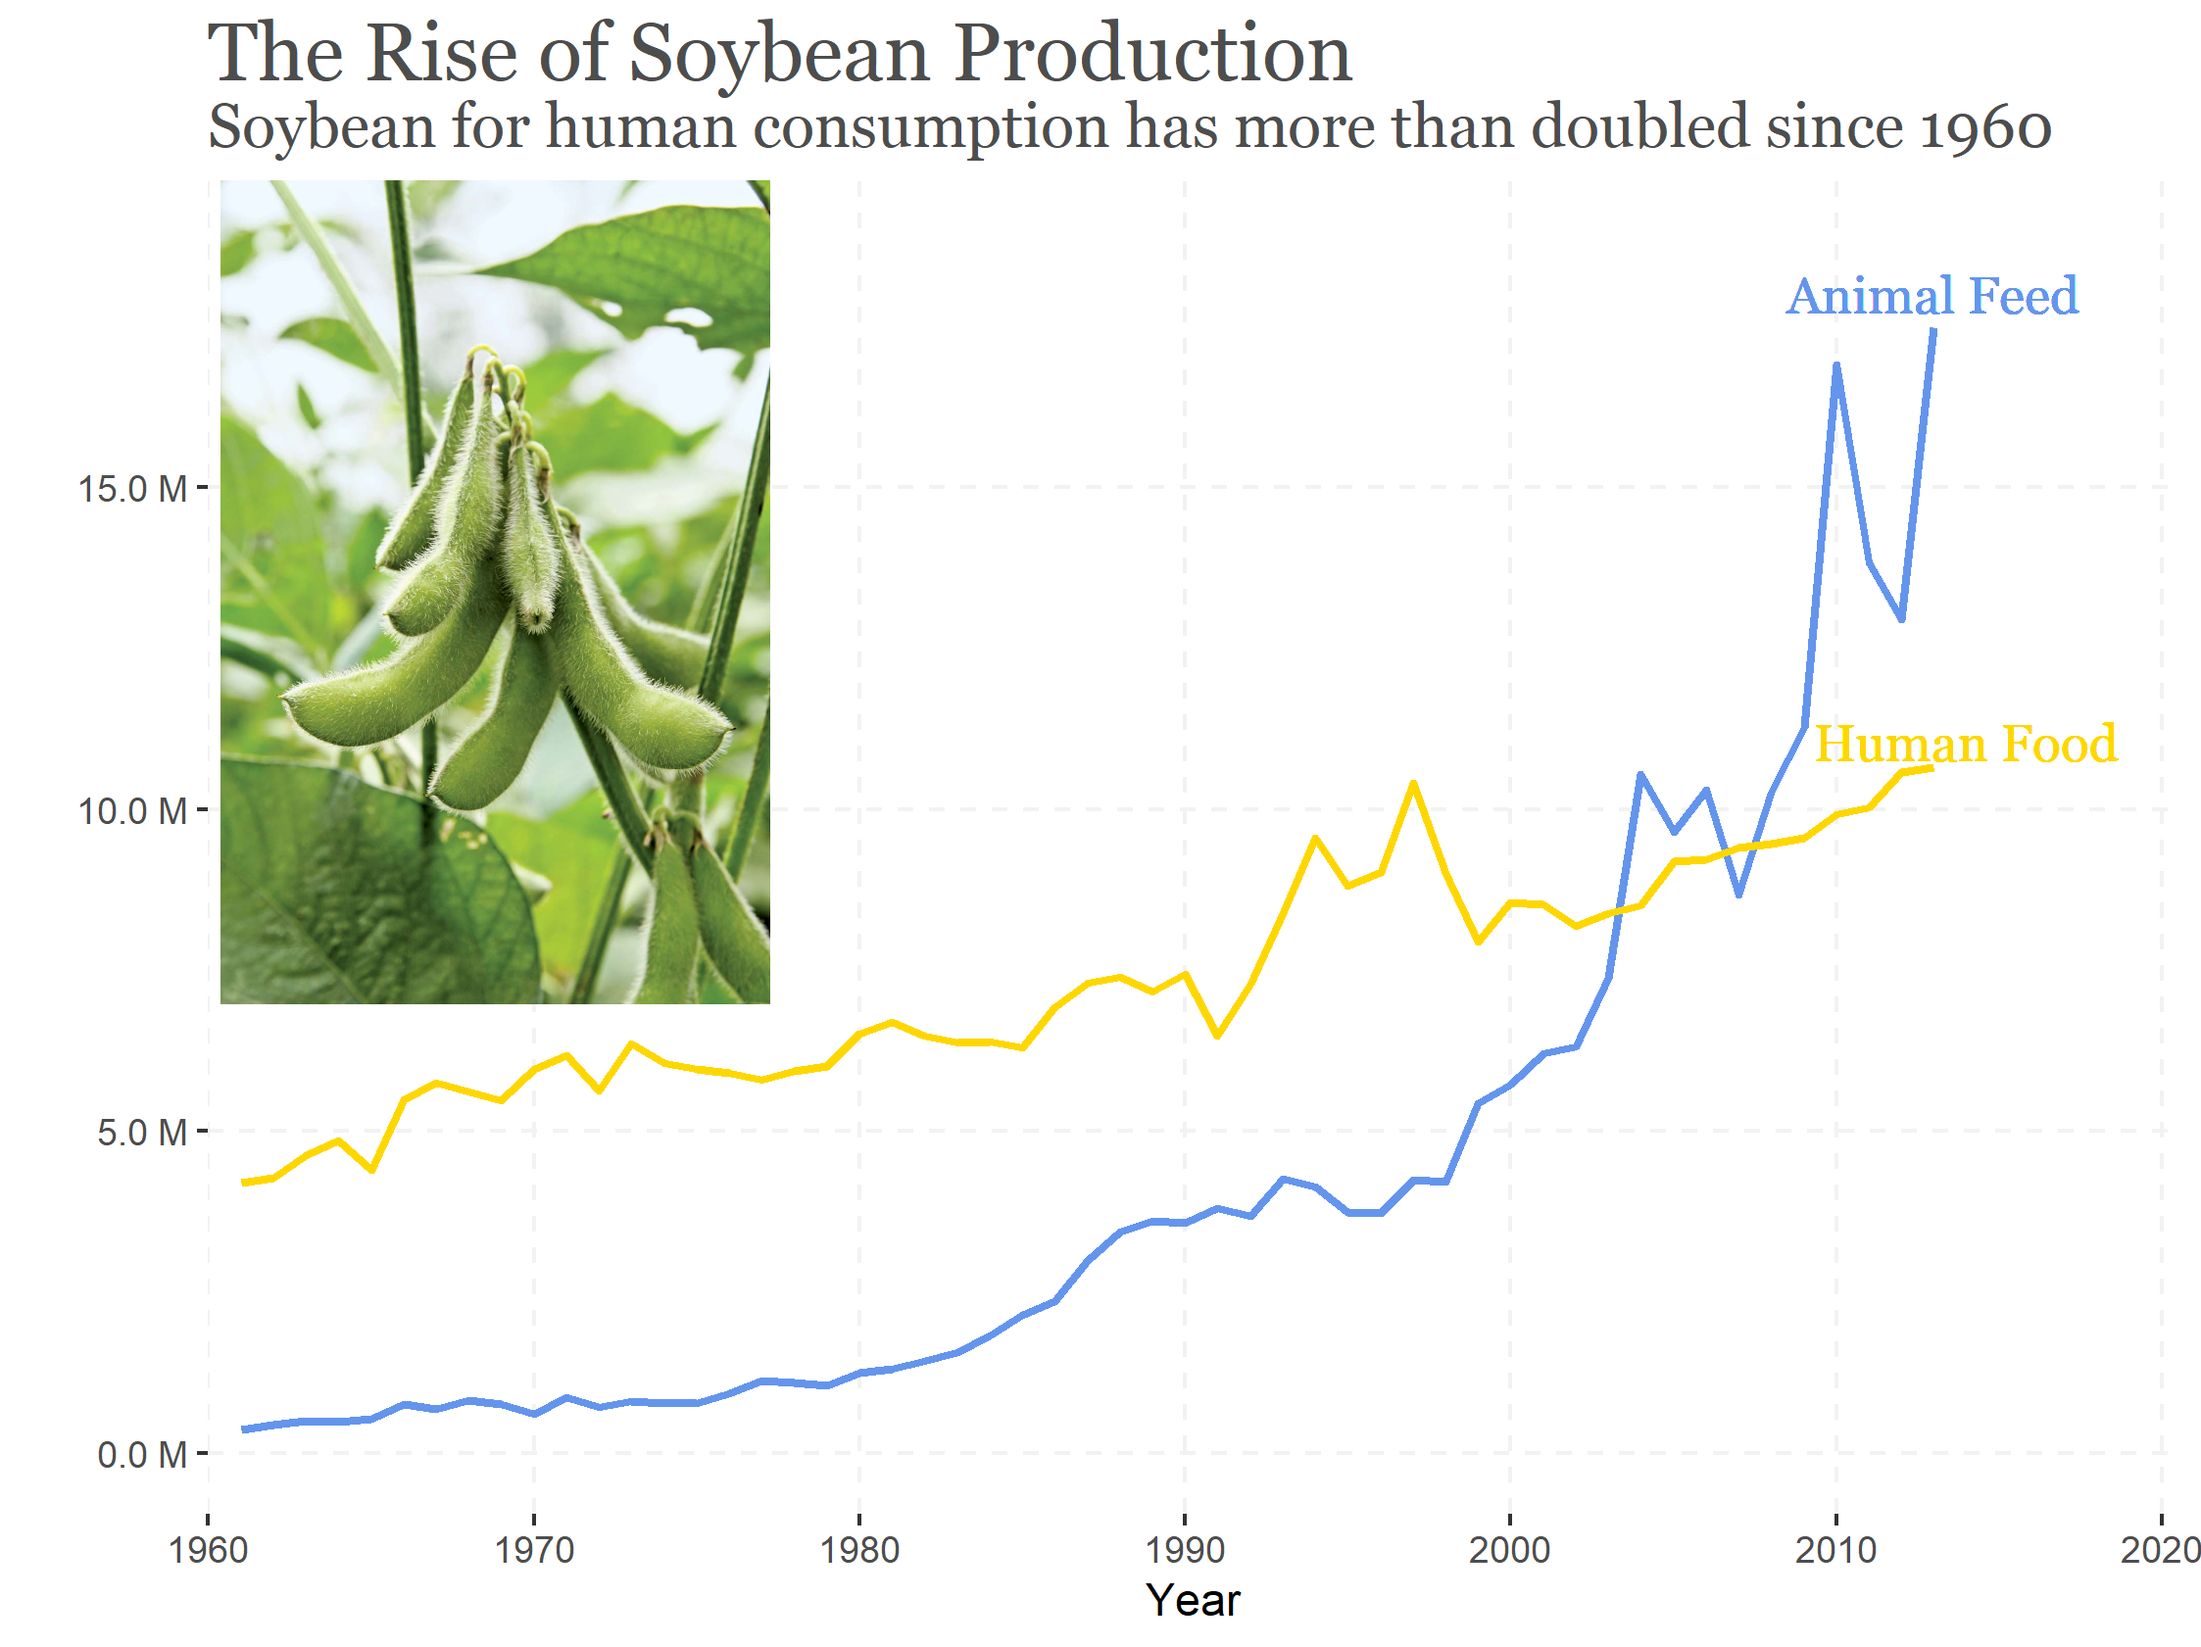
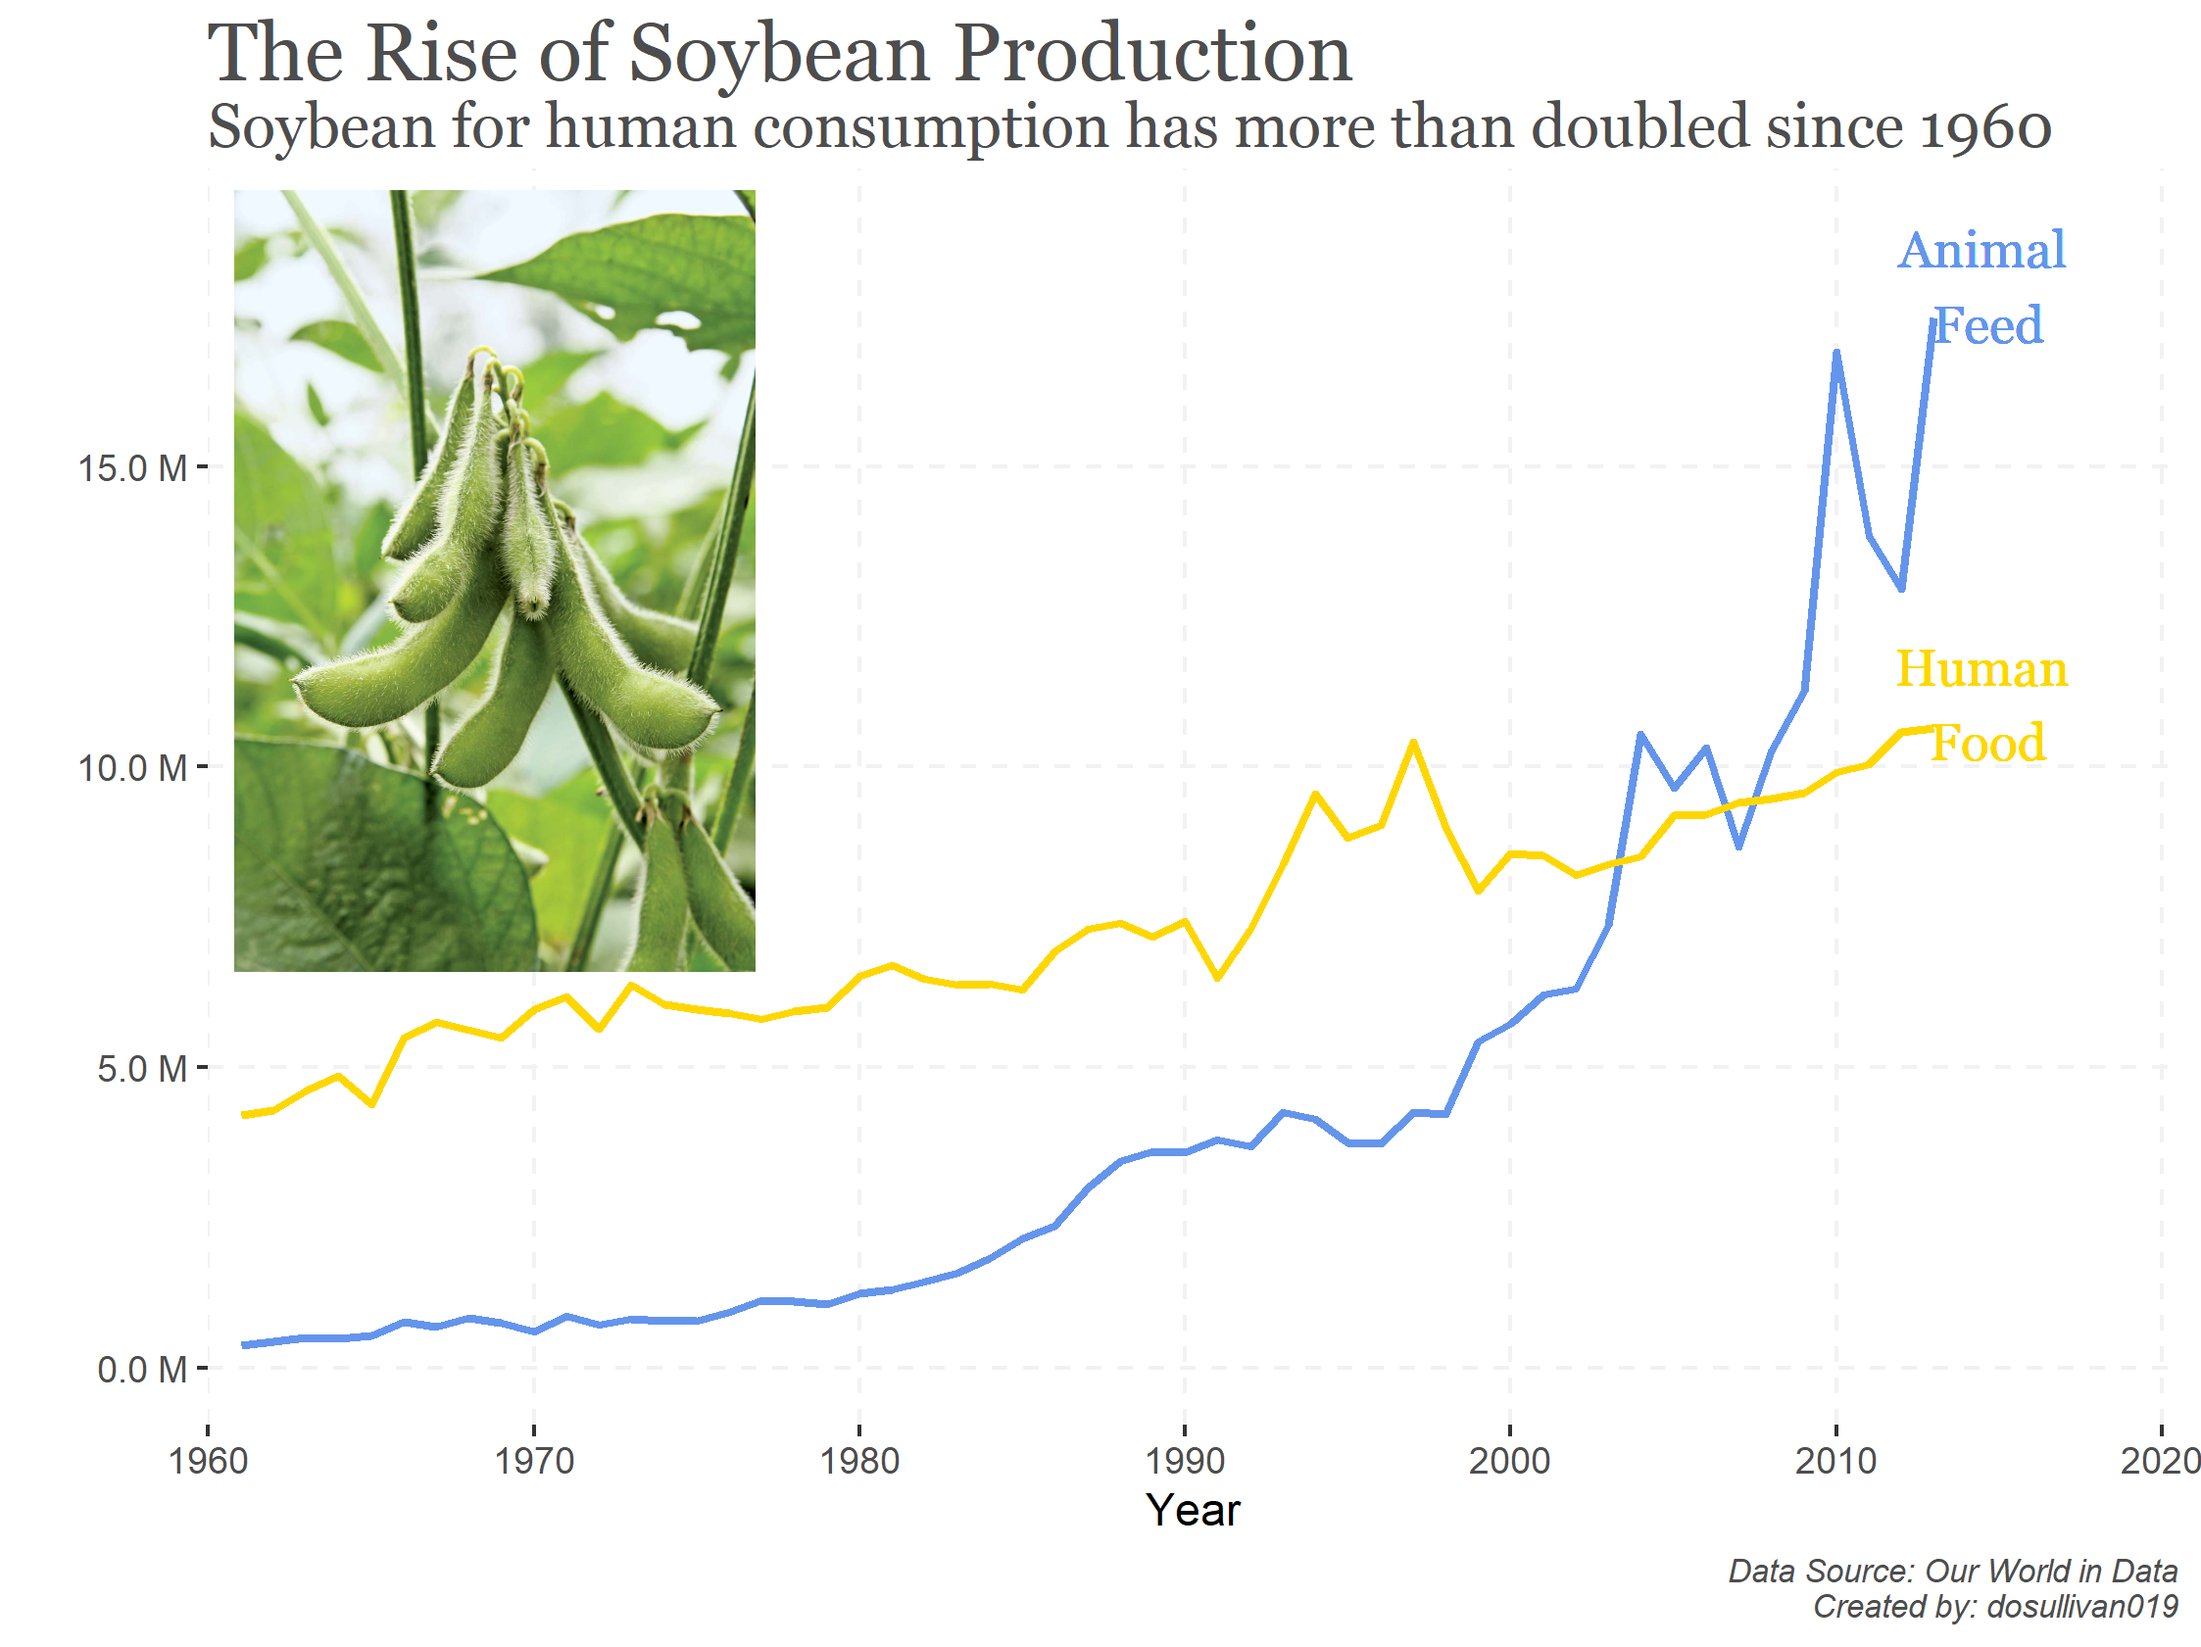
fix dimensions

diff --git a/README.md b/README.md
@@ -2,6 +2,9 @@
 My contributions and code for #tidytuesdy
 
 ## 2021
+### Week 15: Deforestation
+![Timeseries of Soybean production](https://github.com/dosullivan019/tidytuesday/blob/master/plots/2021W15_soybean.png)
+
 ### Week 13: UN Votes
 ![UN Votes Map for 2019](https://github.com/dosullivan019/tidytuesday/blob/master/plots/2021W13_UN_Votes.png)
 
